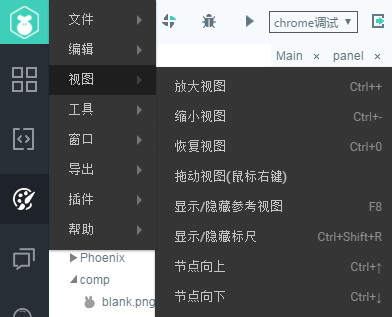
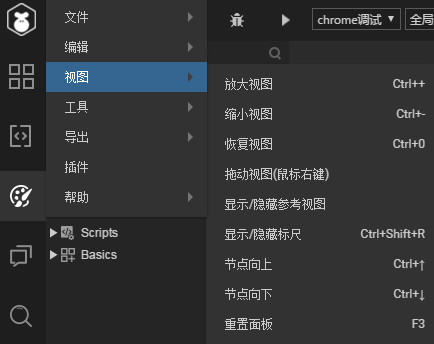
menubar

diff --git a/LayaAir2.0/Chinese/LayaAir_AS3/IDE/Design_Mode/MenuBar/readme.md b/LayaAir2.0/Chinese/LayaAir_AS3/IDE/Design_Mode/MenuBar/readme.md
@@ -86,7 +86,7 @@
 
 - 拖动视图：按住鼠标右键（或鼠标滚轮）拖动视图位置。
 
-- 显示/隐藏参考视图：设置在场景编辑器中显示/隐藏视图，快捷键 F8。
+- 显示/隐藏参考视图：设置在场景编辑器中显示/隐藏视图。
 
 - 显示/隐藏标尺：设置在场景编辑器中显示/隐藏标尺，快捷键 Ctrl+Shift+R。
 
@@ -105,55 +105,24 @@
 
 
 - SWF转换：打开SWF资源转化工具窗口，以供用户进行SWF转换操作。
-
 - JS压缩：打开JS压缩工具窗口，以供用户将JS文件进行压缩和混淆。
-
+- 转换为TPG：只在QQ浏览器的少数情况下可以用，并且域名要和腾讯备案才可以。
+- 纹理图片转换：（vip专属功能）压缩纹理，安卓不能压缩png。
+- 文本文件打包：（vip专属功能）把多个内容为json格式的文件合并为一个文件。
+- 二进制文件打包：（vip专属功能）把多个二进制文件合并为一个。
 - 龙骨动画转换：打开龙骨动画转换窗口，以供用户将DragonBones骨骼动画转换为LayaAir识别的格式。
-
 - Spine动画转换：打开Spine动画转换窗口，以供用户将Spine骨骼动画转换为LayaAir识别的格式。
-
 - 图集打包：打开图集打包窗口，以供用户进行图集打包操作。
-
+- Psd2UI：把Ps按一定规则制作的psd文件转换成laya使用的ui文件。
+- 图集打包：把多个小图打包成一个大图集。
 - 运行器下载：打开运行器下载的二维码窗口，以供用户扫码下载LayaNative的运行器。
-
-- 打包APP：APP打包的环境配置与操作窗口，以供用户将LayaAir项目打包为安卓的APP（apk文件）
-
-- 渠道打包工具：打开渠道打包窗口，以供用户将LayaAir引擎项目直接打包为已对接多个安卓主流渠道的apk包。
-
 - APP构建：打开构建功能窗口，以供用户将LayaAir引擎项目构建为Android-eclipse、Android-studio、XCode(IOS)三种移动端的APP项目工程。
-
-- 3D转换工具：打开3D转换工具的URL链接，压缩包内提供了3DMax与Unity3D编辑器的资源转换工具，让3DMax与Unity3D的资源成为LayaAir引擎支持的资源。
-
-  
+- 微信web开发工具：微信小游戏的IDE下载。
 
 
+
 
-### 五、窗口
-
-   ![blob.png](img/6.png)<br/>
-        	（图6）
-
-- 动画面板：如果动画管理器面板被关闭，可以在这里设置将该面板重新显示。
-
-- 帧属性面板：如果帧属性面板被关闭，可以在这里设置将该面板重新显示。
-
-- 项目面板：如果项目管理器面板被关闭，可以在这里设置将该面板重新显示。
-
-- 资源面板：如果资源管理器面板被关闭，可以在这里设置将该面板重新显示。
-
-- 属性面板：如果属性设置器面板被关闭，可以在这里设置将该面板重新显示。
-
-- 层级面板：如果层级管理器面板被关闭，可以在这里设置将该面板重新显示。
-
-- 模板面板：如果模板管理器面板被关闭，可以在这里设置将该面板重新显示。
-
-- 组件面板：如果组件面板被关闭，可以在这里设置将该面板重新显示。
-
-- 重置面板：恢复所有管理器面板的位置以及视图大小，快捷键 F3。
-
-  
-
-### 六、导出
+### 五、导出
 
   ![blob.png](img/7.png) <br/>
         	（图7）
@@ -168,22 +137,18 @@
 
 - 导出语言包：该功能可以提取当前LayaAirIDE所有的UI文本内容生成lang.lang文件，用以设置多语言版本。
 
-- 刷新资源及页面：刷新并重新显示资源及页面，一般在产生资源变动的情况下用来刷新所有，快捷键 F5。
+- 刷新资源及页面：刷新并重新显示资源及页面，一般在产生资源变动的情况下用来刷新所有。
 
-- 刷新页面：对页面进行刷新并重新显示页面，快捷键 F6。
+- 刷新页面：对页面进行刷新并重新显示页面。
 
-- 刷新资源：刷新资源管理器，重新显示资源管理器对资源的引用，快捷键 F7。
+- 刷新资源：刷新资源管理器，重新显示资源管理器对资源的引用。
 
 - 查找未被使用的资源：查找项目中未被使用的资源，并整理成列表，方便快速删除不用的资源，快捷键 F4。
 
   
 
 
-### 七、插件
-
-可自主编辑开发插件或寻找共享插件安装至IDE中，以供开发者使用。
-
-### 八、帮助
+### 六、帮助
 
   ![blob.png](img/8.png)<br/>
         	（图8）
